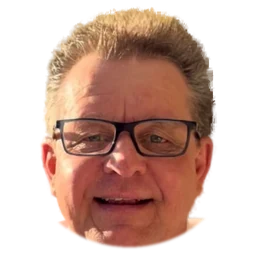
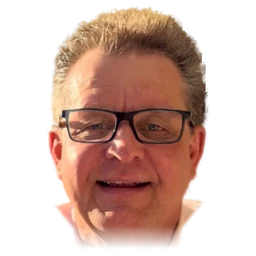
Maskottchen: Kopf mit Kinn und Hals, im Bild rund 15 % größer; auf dem Handy so platziert, dass er die Überschrift nicht verdeckt
Claude-Session: https://claude.ai/code/session_017T7MThRvUajg2JwSaSEw5c

Changed region(s): [[0.1562, 0.0312, 0.8438, 0.9688], [0.3438, 0.2812, 0.375, 0.3125]]

diff --git a/source/assets/stylesheets/site.src.css b/source/assets/stylesheets/site.src.css
@@ -304,21 +304,21 @@ body:has(#nav-toggle:checked) { overflow: hidden; }
 /* Hüpfender Kopf rechts oben (wie auf der Altseite): hüpft dauernd, nach drei Hüpfern dreht er sich beim vierten
    einmal um sich selbst. Seitenverhältnis 1:1, kein Rand, keine Verzerrung. Startet erst nach dem Laden. */
 .mascot-corner {
-  --s: 3.5rem;
+  --s: 3.9rem;
   --hop: 4.5rem;
   position: absolute;
   z-index: 5;
   right: 0.5rem;
-  top: 6.8rem;
+  top: 6.5rem;
   width: var(--s);
   height: var(--s);
   pointer-events: none;
 }
 .mascot-corner img { display: block; width: 100%; height: 100%; }
-@media (min-width: 560px) { .mascot-corner { --s: 5rem; --hop: 8rem; right: 1.25rem; top: 8.5rem; } }
-@media (min-width: 768px) { .mascot-corner { --s: 5.5rem; --hop: 9.5rem; right: 1.5rem; top: 10.5rem; } }
+@media (min-width: 560px) { .mascot-corner { --s: 6.8rem; --hop: 8rem; right: 1.25rem; top: 8.5rem; } }
+@media (min-width: 768px) { .mascot-corner { --s: 7.5rem; --hop: 9.5rem; right: 1.5rem; top: 10.5rem; } }
 @media (min-width: 1280px) {
-  .mascot-corner { --s: 6rem; --hop: 11rem; right: max(1.5rem, calc((100vw - 80rem) / 2 + 2rem)); top: 12.5rem; }
+  .mascot-corner { --s: 8.2rem; --hop: 11rem; right: max(1.5rem, calc((100vw - 80rem) / 2 + 2rem)); top: 12.5rem; }
 }
 .is-loaded .mascot-corner { animation: corner-bounce 0.875s infinite 1s; }
 .is-loaded .mascot-corner .mascot-spin { animation: corner-spin 3.5s infinite 1s; }
